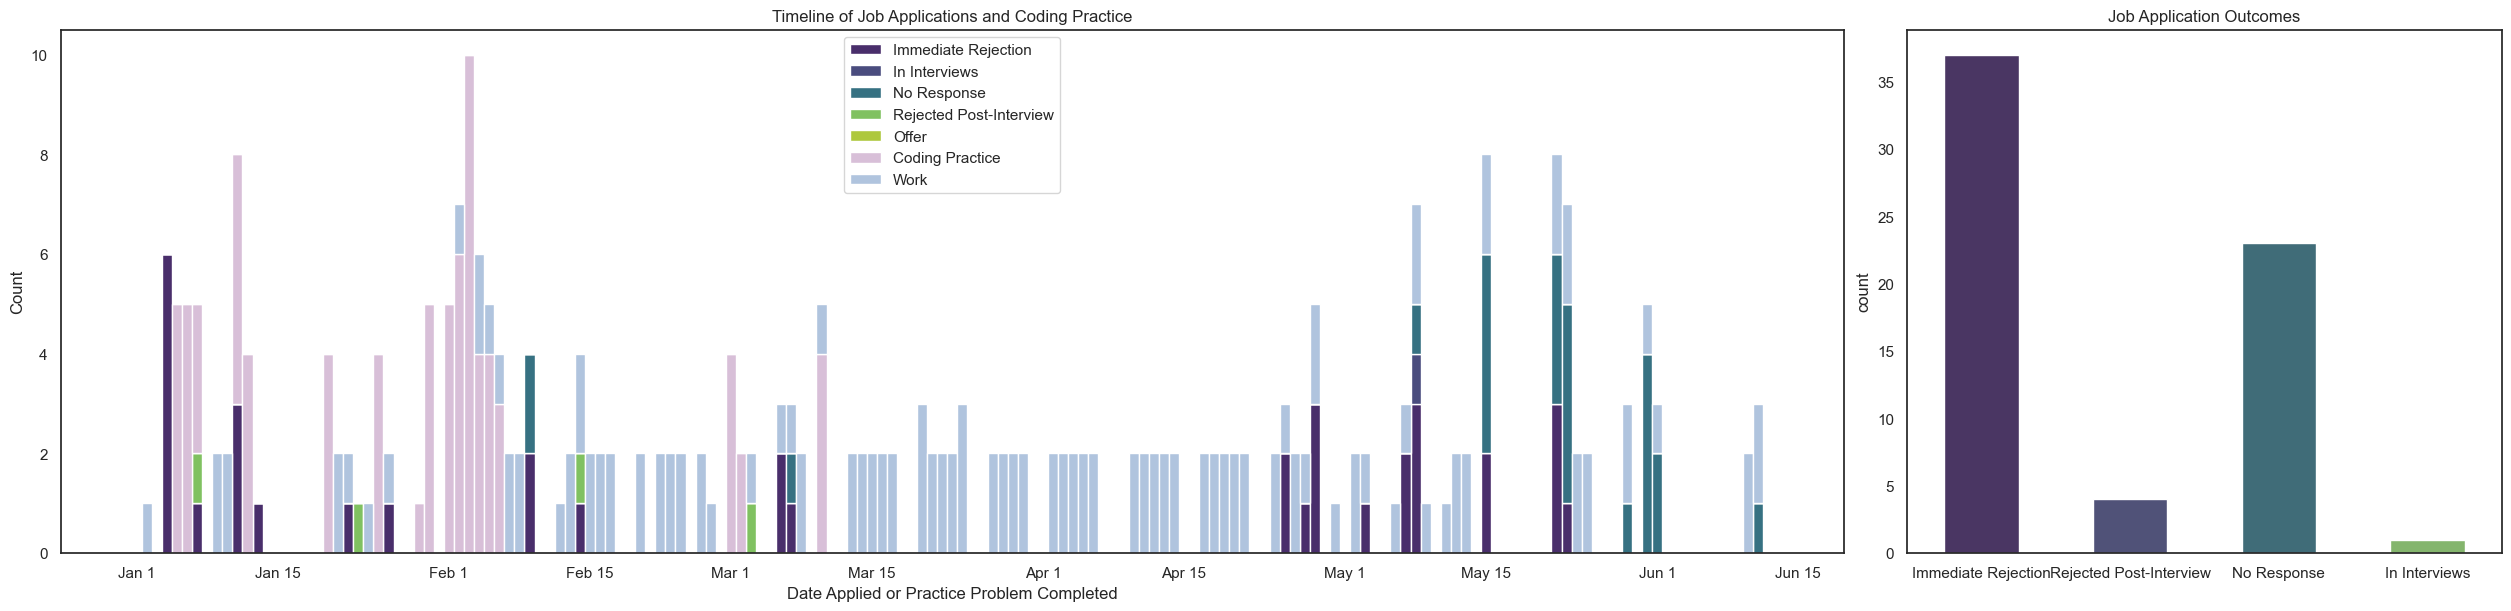
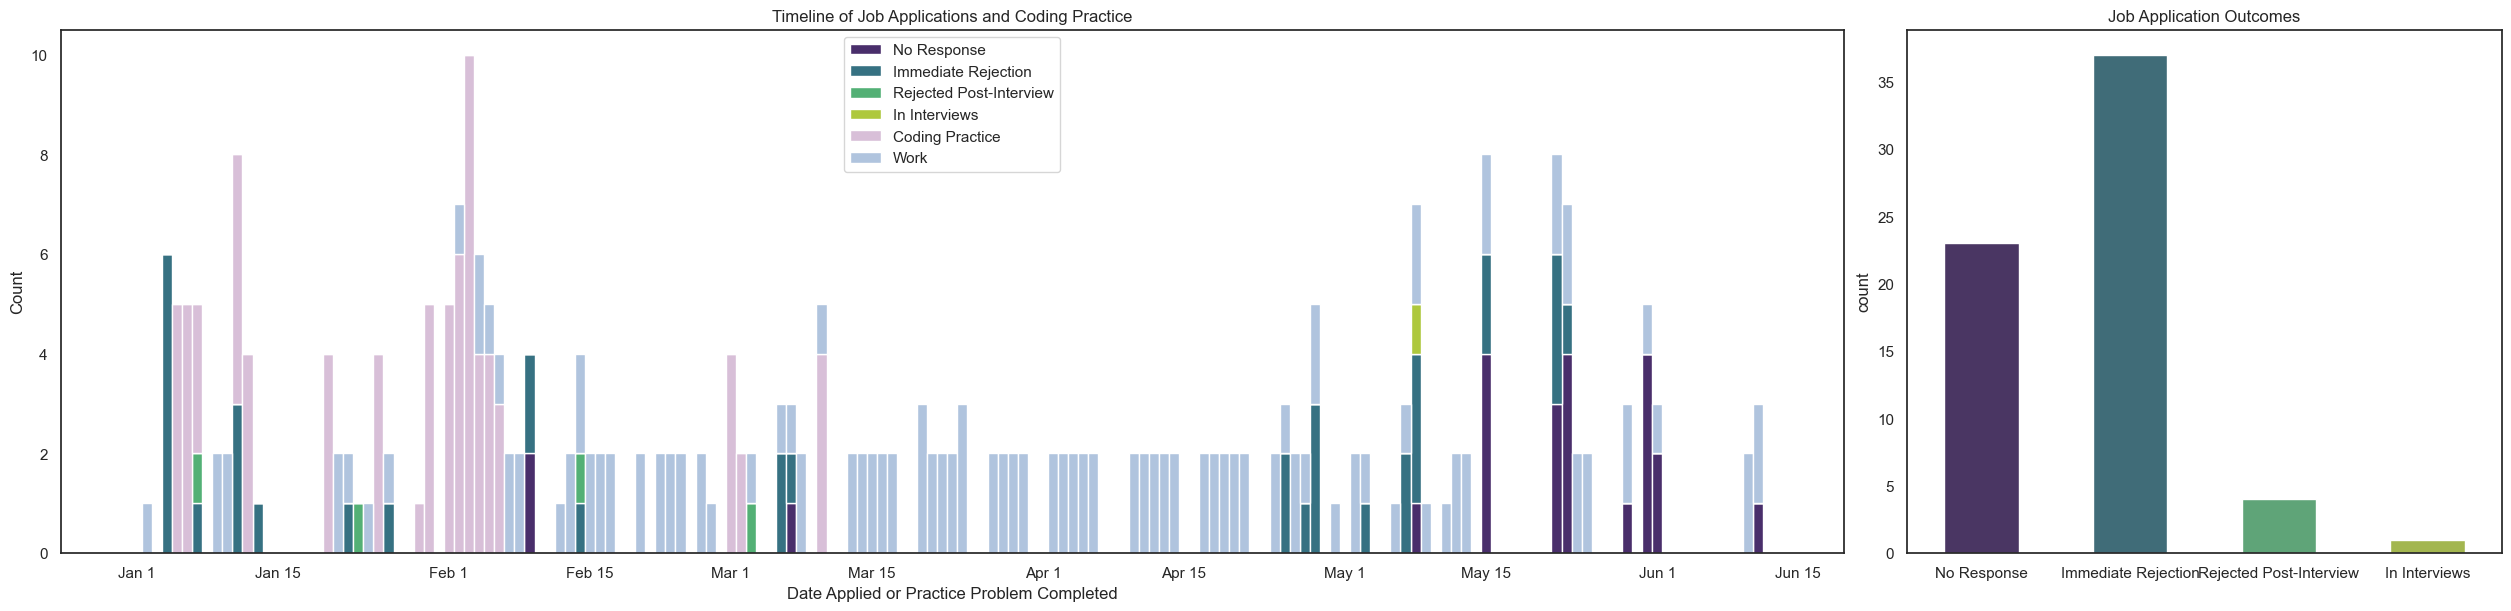
edited timeline plot

diff --git a/py_files/get_df_functions.py b/py_files/get_df_functions.py
@@ -5,6 +5,8 @@ GET ALL GRAPHS AS SUBPLOTS
 ''' IMPORTS '''
 import pandas as pd
 import numpy as np
+from IPython.display import display
+
 # from sklearn.preprocessing import LabelEncoder
 
 from py_files.data_functions import read_df
@@ -81,20 +83,22 @@ def get_responses():
     df = get_outcomes()
     grouped_df = df.groupby('date_applied').value_counts().unstack(fill_value=0)
 
-    all_keys = ['No Response', 'Immediate Rejection', 'Rejected Post-Interview',
-                    'In Interviews', 'Offer']
+    all_keys = ['No Response', 'Immediate Rejection', 'Rejected Post-Interview', 'In Interviews',
+                #'Offer'
+                ]
 
     keys = list(grouped_df.keys())
     nan_keys = list(set(all_keys) - set(keys))
+    yes_keys = list(set(all_keys) - set(nan_keys))
 
-    available_df = pd.DataFrame({x: list(grouped_df[x]) for x in keys}, index=unique_dates)
+    available_df = pd.DataFrame({x: list(grouped_df[x]) for x in yes_keys}, index=unique_dates)
 
     if nan_keys:
         nan_df = pd.DataFrame({x: len(available_df)*[0] for x in nan_keys}, index=unique_dates)
+        responses_df = pd.concat([available_df, nan_df], axis=1)
+        return responses_df
 
-    responses_df = pd.concat([available_df, nan_df], axis=1)
-
-    return responses_df
+    return available_df
 
 def get_prep_df():
 

diff --git a/py_files/visualization_functions.py b/py_files/visualization_functions.py
@@ -1,5 +1,6 @@
 ''' IMPORTS '''
 import pandas as pd
+from IPython.display import display
 
 import matplotlib.dates as mpld
 import matplotlib.pyplot as plt
@@ -204,8 +205,8 @@ def show_timeline():
     ax1 = fig.add_subplot(spec[0, 0:3])
     ax1_1 = fig.add_subplot(spec[0, 3])
 
-    cat_pal_list = [cat_pal[0], cat_pal[1], cat_pal[3],
-                    cat_pal[7], cat_pal[8],
+    cat_pal_list = [cat_pal[0], cat_pal[3], cat_pal[6],
+                    cat_pal[8], # "gold",
                     "thistle", "lightsteelblue"]
 
     t_accum = [0] * len(feats)
@@ -233,7 +234,9 @@ def show_timeline():
 
     totals_df = get_outcomes()
     sns.countplot(totals_df, x='final_outcome', ax=ax1_1, width=.5,
-                  palette=cat_pal_list)
+                  palette=[cat_pal[0], cat_pal[3], cat_pal[6],
+                    cat_pal[8]], order=['No Response', 'Immediate Rejection', 'Rejected Post-Interview',
+                    'In Interviews'])
     ax1_1.set_title('Job Application Outcomes')
     ax1_1.set_label(totals_df.final_outcome)
     ax1_1.set_xlabel('')
